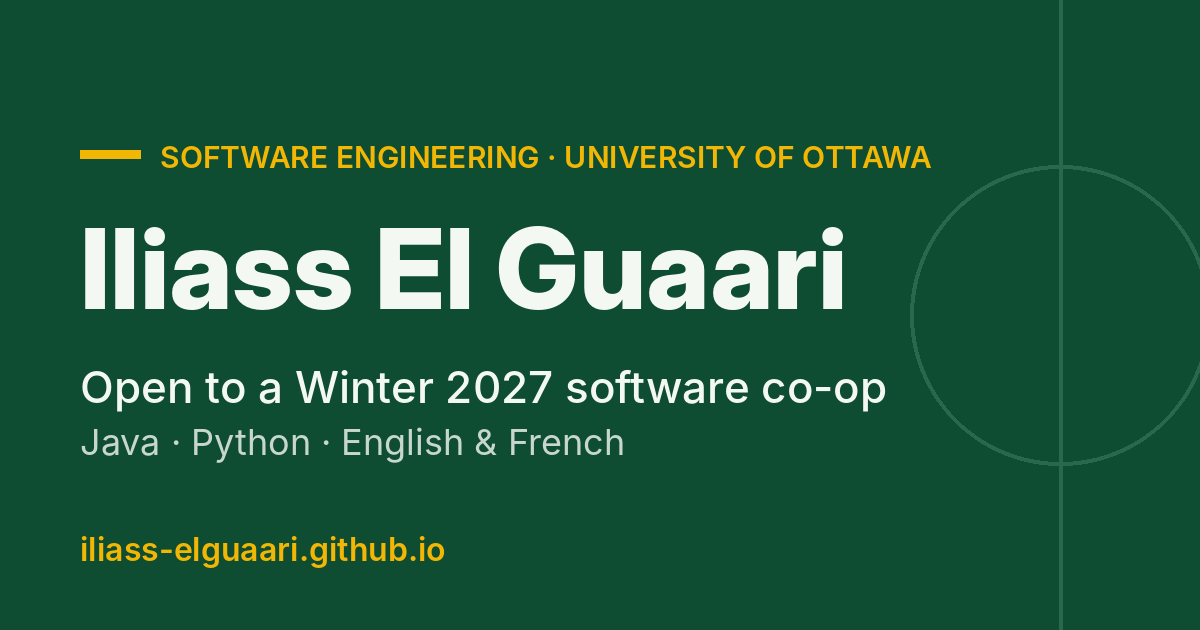
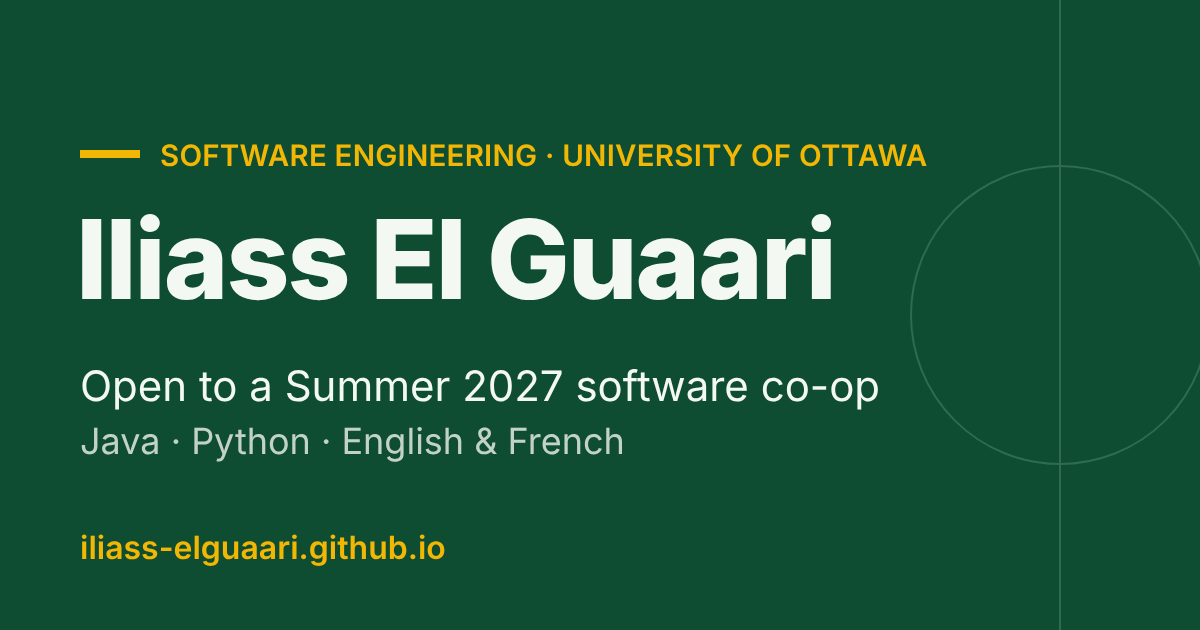
Switch to a Summer 2027 co-op and add SQL, PostgreSQL and Spring
- Every Winter 2027 / hiver 2027 mention now says Summer 2027 / été 2027,
  in English and French, including the meta tags and the share image
- Availability date: May 2027 / mai 2027
- SQL added to Languages, PostgreSQL and Spring to Tools; SQL (PostgreSQL)
  removed from Currently learning

diff --git a/index.html b/index.html
@@ -4,9 +4,9 @@
   <meta charset="utf-8">
   <meta name="viewport" content="width=device-width, initial-scale=1">
   <title>Iliass El Guaari · Software Engineering co-op student</title>
-  <meta name="description" content="Iliass El Guaari, Software Engineering (Co-op) student at the University of Ottawa, open to a Winter 2027 software co-op. Java and Python projects with demo videos. English and French.">
+  <meta name="description" content="Iliass El Guaari, Software Engineering (Co-op) student at the University of Ottawa, open to a Summer 2027 software co-op. Java and Python projects with demo videos. English and French.">
   <meta property="og:title" content="Iliass El Guaari · Software Engineering co-op · Génie logiciel (coop)">
-  <meta property="og:description" content="Software Engineering (Co-op) student at the University of Ottawa, open to a Winter 2027 co-op. Étudiant en génie logiciel, disponible pour un stage coop à l'hiver 2027.">
+  <meta property="og:description" content="Software Engineering (Co-op) student at the University of Ottawa, open to a Summer 2027 co-op. Étudiant en génie logiciel, disponible pour un stage coop à l'été 2027.">
   <meta property="og:type" content="website">
   <meta property="og:url" content="https://iliass-elguaari.github.io/">
   <meta property="og:image" content="https://iliass-elguaari.github.io/share.png">
@@ -48,7 +48,7 @@
     <div class="wrap topbar-inner">
       <div class="topbar-left">
         <a class="wordmark" href="#top">Iliass El Guaari</a>
-        <span class="status-chip"><span class="status-dot" aria-hidden="true"></span><span lang="en">Winter 2027 co-op</span><span lang="fr">Coop hiver 2027</span></span>
+        <span class="status-chip"><span class="status-dot" aria-hidden="true"></span><span lang="en">Summer 2027 co-op</span><span lang="fr">Coop été 2027</span></span>
       </div>
       <div class="topbar-right">
         <div class="lang-switch" role="group" aria-label="Language / Langue">
@@ -79,7 +79,7 @@
             <h1>Iliass El Guaari</h1>
             <p class="lead" lang="en">I'm a Software Engineering co-op student at the University of Ottawa. I built a Java engine that picks a soccer lineup from a roster, and I extended an open-source AI travel planner that turns a destination into a day-by-day trip. I work in English and French.</p>
             <p class="lead" lang="fr">Je suis étudiant en génie logiciel (régime coop) à l'Université d'Ottawa. J'ai créé un moteur Java qui compose une équipe de soccer à partir d'un effectif, et j'ai enrichi un planificateur de voyage IA open source qui fait d'une destination un itinéraire jour par jour. Je travaille en français comme en anglais.</p>
-            <p class="status-pill"><span class="live-dot" aria-hidden="true"></span><span><span lang="en">Open to a Winter 2027 co&#8209;op</span><span lang="fr">Disponible pour un stage coop, hiver 2027</span></span></p>
+            <p class="status-pill"><span class="live-dot" aria-hidden="true"></span><span><span lang="en">Open to a Summer 2027 co&#8209;op</span><span lang="fr">Disponible pour un stage coop, été 2027</span></span></p>
           </div>
 
           <div class="report-wrap">
@@ -103,7 +103,7 @@
               <dl class="report-rows">
                 <div class="row">
                   <dt><span lang="en">Available</span><span lang="fr">Disponible</span></dt>
-                  <dd><span lang="en">Jan. 2027, co&#8209;op</span><span lang="fr">janv. 2027, stage coop</span></dd>
+                  <dd><span lang="en">May 2027, co&#8209;op</span><span lang="fr">mai 2027, stage coop</span></dd>
                 </div>
                 <div class="row">
                   <dt><span lang="en">Program</span><span lang="fr">Programme</span></dt>
@@ -596,10 +596,10 @@
         <div class="exp-grid">
           <ol class="timeline">
             <li class="tl-item tl-item--next">
-              <p class="tl-date"><span lang="en">Jan. 2027</span><span lang="fr">janv. 2027</span></p>
+              <p class="tl-date"><span lang="en">May 2027</span><span lang="fr">mai 2027</span></p>
               <div class="tl-body">
                 <h3><span lang="en">Software co-op: your team?</span><span lang="fr">Stage coop en logiciel&nbsp;: dans votre équipe&#8239;?</span></h3>
-                <p><span lang="en">Open to a Winter 2027 software co-op.</span><span lang="fr">Disponible pour un stage coop en logiciel à l'hiver 2027.</span></p>
+                <p><span lang="en">Open to a Summer 2027 software co-op.</span><span lang="fr">Disponible pour un stage coop en logiciel à l'été 2027.</span></p>
                 <p class="tl-link"><a href="#contact"><span lang="en">Get in touch →</span><span lang="fr">Me contacter →</span></a></p>
               </div>
             </li>
@@ -681,6 +681,7 @@
               <a class="chip" href="#levain">JavaScript <span class="chip-to"><span lang="en">→ Maison Levain</span><span lang="fr">→ Maison Levain</span></span></a>
               <a class="chip" href="#levain">HTML <span class="chip-to"><span lang="en">→ Maison Levain</span><span lang="fr">→ Maison Levain</span></span></a>
               <a class="chip" href="#levain">CSS <span class="chip-to"><span lang="en">→ Maison Levain</span><span lang="fr">→ Maison Levain</span></span></a>
+              <span class="chip">SQL</span>
             </dd>
           </div>
           <div class="tool-row">
@@ -691,6 +692,8 @@
               <span class="chip">VS Code</span>
               <span class="chip">IntelliJ IDEA</span>
               <a class="chip" href="#trippilot">Streamlit <span class="chip-to">→ TripPilot AI</span></a>
+              <span class="chip">PostgreSQL</span>
+              <span class="chip">Spring</span>
             </dd>
           </div>
           <div class="tool-row">
@@ -705,7 +708,6 @@
           <div class="tool-row">
             <dt><span lang="en">Currently learning</span><span lang="fr">En apprentissage</span></dt>
             <dd class="chips">
-              <span class="chip chip--learning">SQL (PostgreSQL)</span>
               <span class="chip chip--learning">React</span>
               <span class="chip chip--learning">Docker</span>
             </dd>
@@ -726,7 +728,7 @@
     <section id="contact" class="section">
       <div class="wrap">
         <div class="contact-panel">
-          <h2><span lang="en">Hiring for Winter 2027?</span><span lang="fr">Vous recrutez pour l'hiver 2027&#8239;?</span></h2>
+          <h2><span lang="en">Hiring for Summer 2027?</span><span lang="fr">Vous recrutez pour l'été 2027&#8239;?</span></h2>
           <p class="contact-text" lang="en">Email is the best way to reach me. Interview in English or French, your call.</p>
           <p class="contact-text" lang="fr">Le courriel est le meilleur moyen de me joindre. Entrevue en français ou en anglais, à vous de choisir.</p>
           <a class="contact-email" href="mailto:ielgu032@uottawa.ca">ielgu032@uottawa.ca</a>

diff --git a/script.js b/script.js
@@ -10,11 +10,11 @@ const EMAIL = "ielgu032@uottawa.ca";
 const PAGE_TEXT = {
   en: {
     title: "Iliass El Guaari · Software Engineering co-op student",
-    description: "Iliass El Guaari, Software Engineering (Co-op) student at the University of Ottawa, open to a Winter 2027 software co-op. Java and Python projects with demo videos. English and French."
+    description: "Iliass El Guaari, Software Engineering (Co-op) student at the University of Ottawa, open to a Summer 2027 software co-op. Java and Python projects with demo videos. English and French."
   },
   fr: {
     title: "Iliass El Guaari · Étudiant en génie logiciel (coop)",
-    description: "Iliass El Guaari, étudiant en génie logiciel (régime coop) à l'Université d'Ottawa, disponible pour un stage coop en logiciel à l'hiver 2027. Projets Java et Python avec vidéos de démo. Français et anglais."
+    description: "Iliass El Guaari, étudiant en génie logiciel (régime coop) à l'Université d'Ottawa, disponible pour un stage coop en logiciel à l'été 2027. Projets Java et Python avec vidéos de démo. Français et anglais."
   }
 };
 
